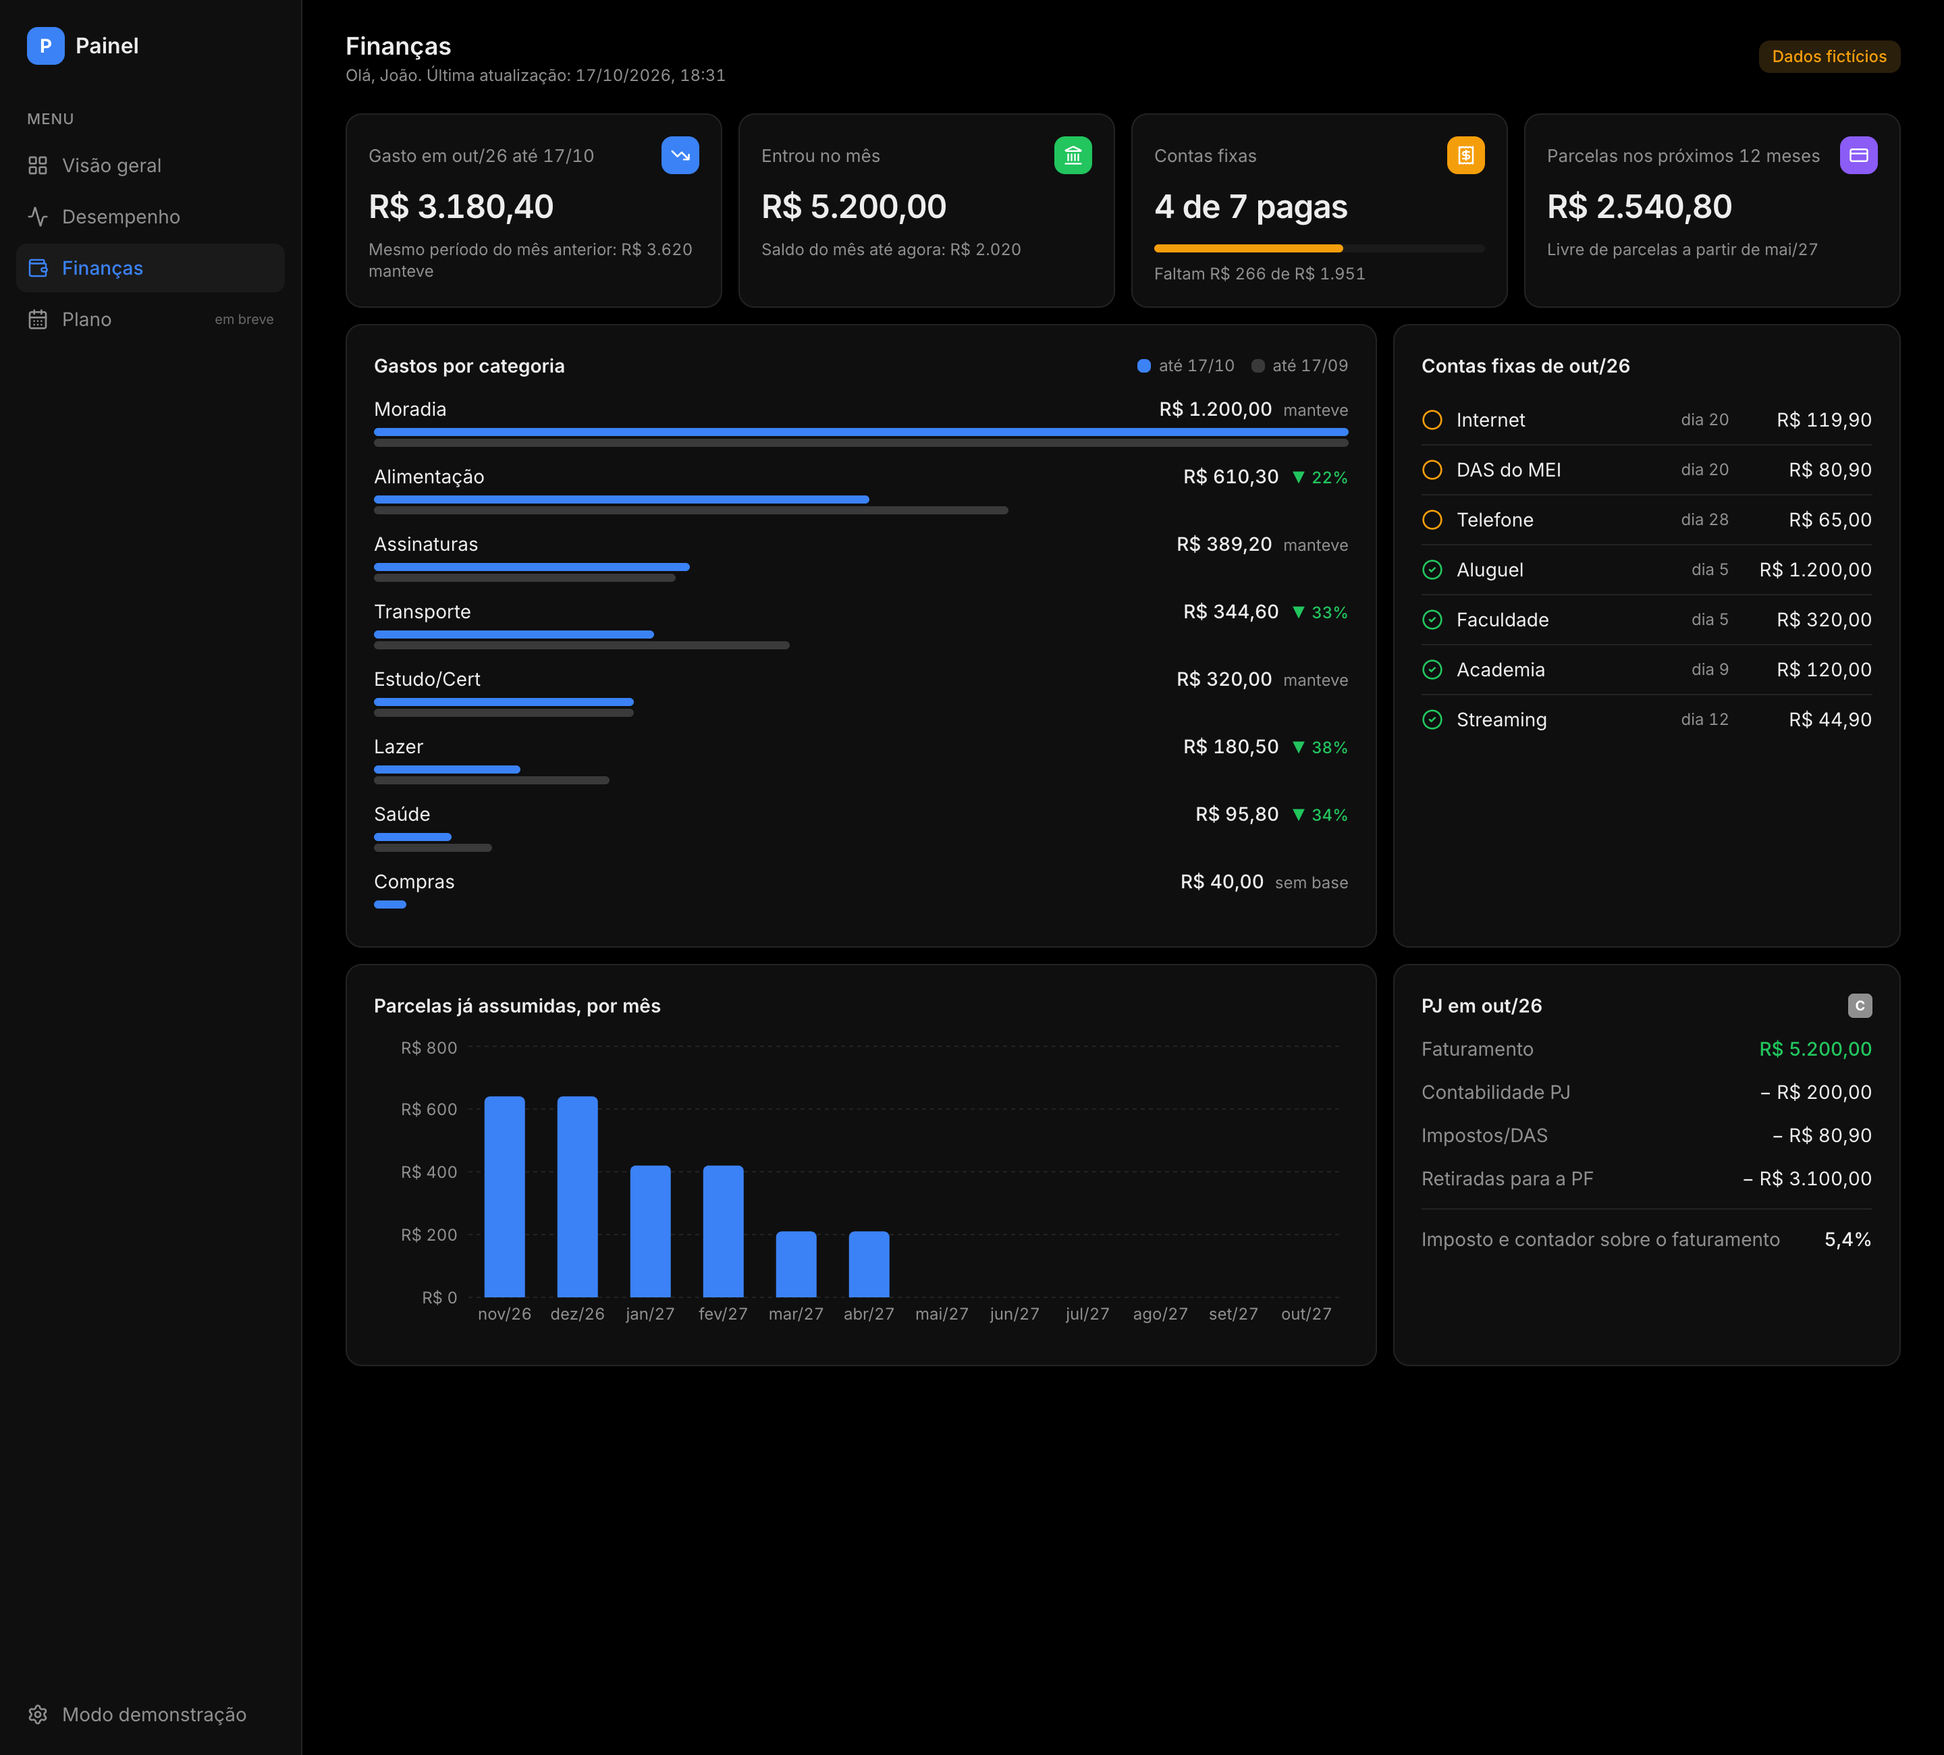
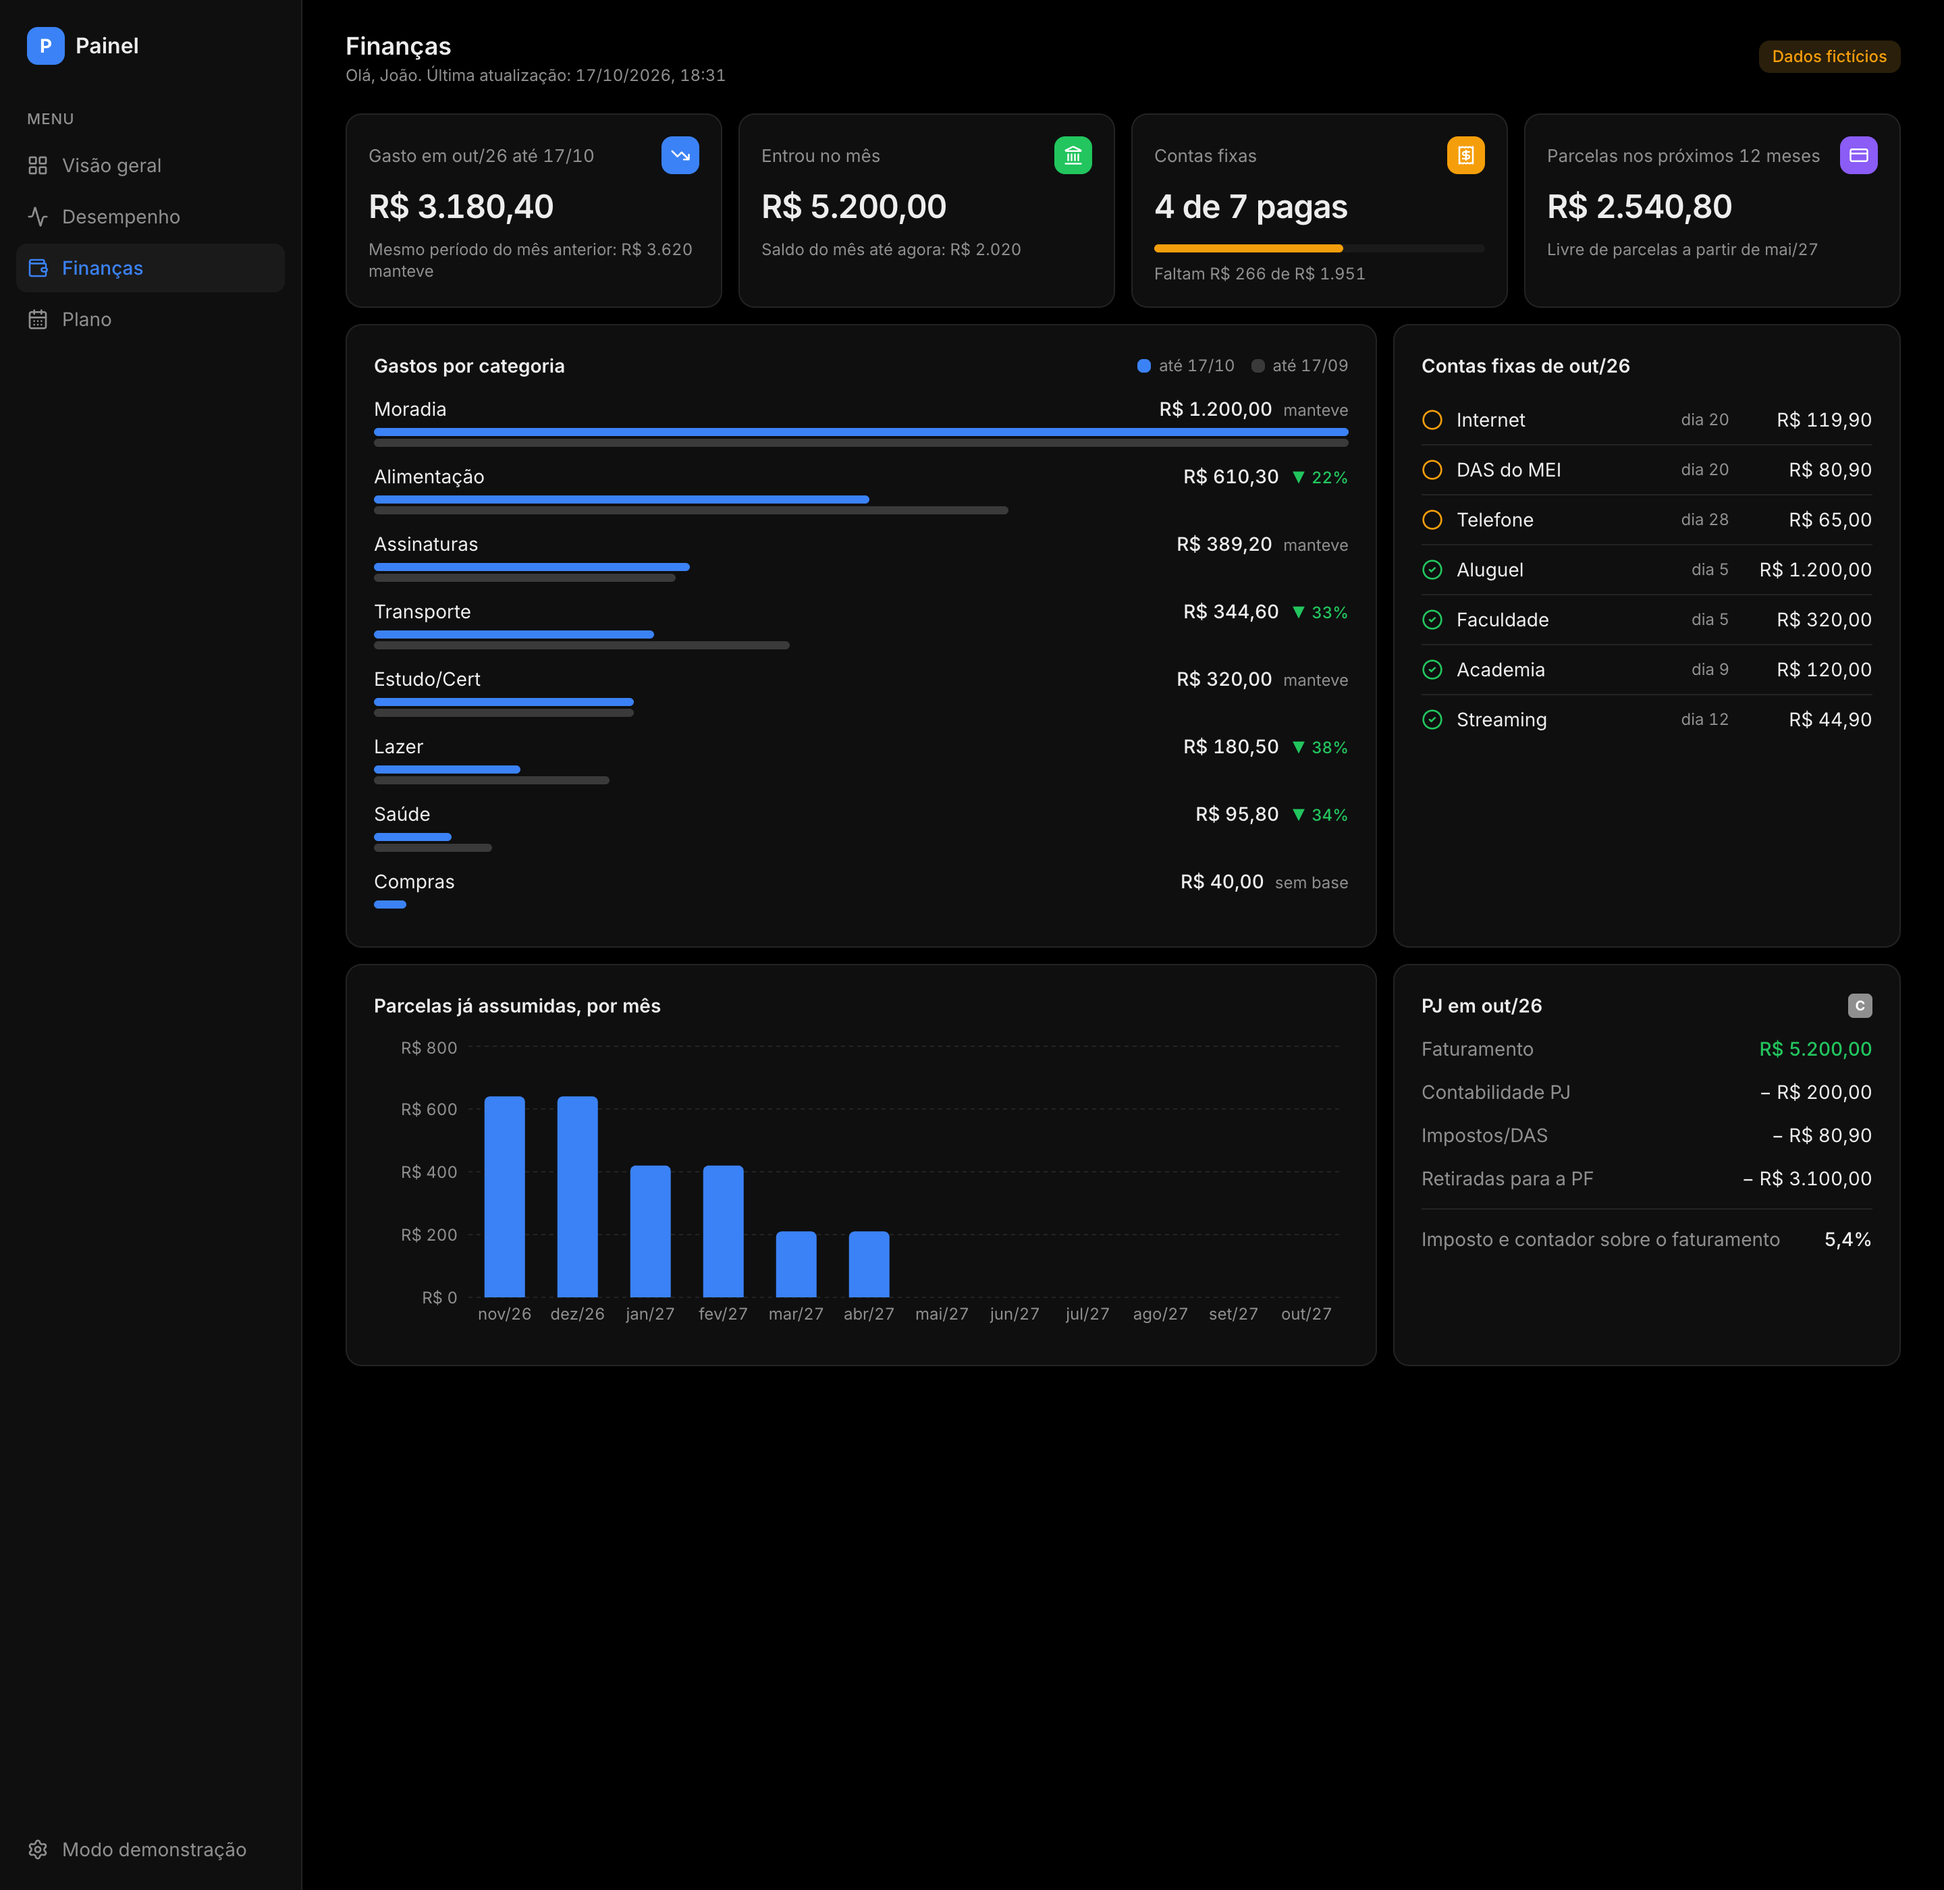
Tela de Plano
Linha do tempo com saldo previsto item a item (descontado o dia a dia ainda livre), depósitos
da meta e compromissos com data para acabar. Visão geral mostra o plano só até o próximo salário.

diff --git a/src/app/plano/page.tsx b/src/app/plano/page.tsx
@@ -1,0 +1,130 @@
+import { CalendarClock, Hourglass, PiggyBank, Wallet } from "lucide-react";
+import { Cartao, Moldura } from "@/components/Moldura";
+import { Barra, Kpi } from "@/components/Kpi";
+import { carregarPainel, modo } from "@/lib/dados";
+import { diaMes, reais, reaisCurto } from "@/lib/formato";
+import type { Status } from "@/lib/tipos";
+
+export const dynamic = "force-dynamic";
+
+const MESES = ["janeiro", "fevereiro", "março", "abril", "maio", "junho", "julho", "agosto", "setembro", "outubro", "novembro", "dezembro"];
+const mesCurto = (ym: string) => `${MESES[Number(ym.slice(5, 7)) - 1].slice(0, 3)}/${ym.slice(2, 4)}`;
+const nMeses = (de: string, ate: string) =>
+  (Number(ate.slice(0, 4)) - Number(de.slice(0, 4))) * 12 + Number(ate.slice(5, 7)) - Number(de.slice(5, 7)) + 1;
+
+const selo: Record<Status, string> = { feito: "bg-ok-suave text-ok", previsto: "bg-primaria-suave text-primaria", atencao: "bg-alerta-suave text-alerta" };
+const textoSelo: Record<Status, string> = { feito: "Feito", previsto: "Previsto", atencao: "Atenção" };
+
+export default async function Plano() {
+  const p = await carregarPainel();
+  const f = p.financas;
+  const hoje = p.atualizadoEm.slice(0, 7);
+  const saldoInicial = f.contas.reduce((s, c) => s + c.saldo, 0);
+
+  // Saldo previsto: parte do saldo de hoje menos o dia a dia ainda livre (gasto aos poucos até o fim do mês)
+  // e aplica, em ordem, só o que ainda não aconteceu.
+  const diaLivre = Math.max(0, f.diaADia.orcamento - f.diaADia.gasto);
+  let corrente = saldoInicial - diaLivre;
+  const linhas = [...f.plano].sort((a, b) => a.data.localeCompare(b.data)).map((i) => {
+    if (i.status !== "feito") corrente += (i.entra ?? 0) - (i.sai ?? 0);
+    return { ...i, saldo: i.status === "feito" ? null : corrente };
+  });
+  const menor = Math.min(saldoInicial - diaLivre, ...linhas.filter((l) => l.saldo != null).map((l) => l.saldo as number));
+  const porMes = linhas.reduce<Record<string, typeof linhas>>((acc, l) => ((acc[l.data.slice(0, 7)] ??= []).push(l), acc), {});
+
+  const depositos = f.meta.depositos ?? [];
+  const feitos = depositos.filter((d) => d.feito).length;
+  const compromissos = (f.compromissos ?? []).map((c) => {
+    const total = nMeses(c.de, c.ate);
+    // Meses anteriores ao atual contam como pagos; o atual, só se o item do plano com o mesmo nome já foi feito.
+    const pagoNoMes = f.plano.some((i) => i.status === "feito" && i.data.startsWith(hoje) && i.descricao === c.descricao);
+    const pagos = Math.min(total, Math.max(0, nMeses(c.de, hoje) - 1 + (pagoNoMes ? 1 : 0)));
+    return { ...c, total, pagos, falta: (total - pagos) * c.mensal };
+  });
+  const mensalAtivo = compromissos.filter((c) => c.ate >= hoje).reduce((s, c) => s + c.mensal, 0);
+
+  return (
+    <Moldura ativa="plano" titulo="Plano" modo={modo} dono={p.dono} atualizadoEm={p.atualizadoEm}>
+      <div className="grid grid-cols-1 gap-3 sm:grid-cols-2 xl:grid-cols-4">
+        <Kpi titulo={f.meta.titulo} valor={`${reaisCurto(f.meta.acumulado)} de ${reaisCurto(f.meta.alvo)}`} icone={PiggyBank} cor="bg-ok"
+          detalhe={<>{feitos} de {depositos.length} depósitos feitos</>}>
+          <Barra pct={(f.meta.acumulado / Math.max(1, f.meta.alvo)) * 100} cor="bg-ok" />
+        </Kpi>
+        <Kpi titulo="Próximo depósito" valor={f.meta.proximo ? reais(f.meta.proximo.valor) : "—"} icone={CalendarClock} cor="bg-primaria"
+          detalhe={f.meta.proximo ? <>Em {diaMes(f.meta.proximo.data)}</> : <>Meta concluída</>} />
+        <Kpi titulo="Menor saldo previsto" valor={reais(menor)} icone={Wallet} cor={menor < 0 ? "bg-perigo" : "bg-alerta"}
+          detalhe={menor < 0 ? <>O plano fica negativo em algum momento</> : <>O plano não fica negativo até {diaMes(linhas.at(-1)?.data ?? "")}</>} />
+        <Kpi titulo="Compromissos por mês" valor={reais(mensalAtivo)} icone={Hourglass} cor="bg-[#8b5cf6]"
+          detalhe={<>{compromissos.filter((c) => c.ate >= hoje).length} com data para acabar</>} />
+      </div>
+
+      <div className="mt-3 grid grid-cols-1 gap-3 xl:grid-cols-3">
+        <div className="xl:col-span-2">
+          <Cartao titulo="Linha do tempo" extra={<span className="text-xs text-texto-2">
+            saldo previsto: {reaisCurto(saldoInicial)} hoje − {reaisCurto(diaLivre)} do dia a dia livre</span>}>
+            <div className="overflow-x-auto">
+              <table className="w-full min-w-[540px] text-sm">
+                <thead>
+                  <tr className="border-b border-borda text-left text-xs text-texto-2">
+                    <th className="py-2 pr-3 font-medium">Data</th><th className="py-2 pr-3 font-medium">Item</th>
+                    <th className="py-2 pr-3 text-right font-medium">Valor</th><th className="py-2 pr-3 text-right font-medium">Saldo previsto</th>
+                    <th className="py-2 font-medium">Status</th>
+                  </tr>
+                </thead>
+                {Object.entries(porMes).map(([mes, itens]) => (
+                  <tbody key={mes}>
+                    <tr><td colSpan={5} className="pb-1 pt-4 text-xs font-semibold uppercase tracking-wider text-texto-2">
+                      {MESES[Number(mes.slice(5, 7)) - 1]} {mes.slice(0, 4)}</td></tr>
+                    {itens.map((i, k) => (
+                      <tr key={k} className={`border-b border-borda last:border-0 ${i.status === "feito" ? "text-texto-2" : ""}`}>
+                        <td className="py-2 pr-3 text-texto-2">{diaMes(i.data)}</td>
+                        <td className="py-2 pr-3">{i.descricao}</td>
+                        <td className={`py-2 pr-3 text-right ${i.entra ? "text-ok" : ""}`}>{i.entra ? `+ ${reais(i.entra)}` : `− ${reais(i.sai ?? 0)}`}</td>
+                        <td className={`py-2 pr-3 text-right font-medium ${i.saldo != null && i.saldo < 0 ? "text-perigo" : ""}`}>
+                          {i.saldo == null ? "—" : reais(i.saldo)}</td>
+                        <td className="py-2"><span className={`rounded-md px-2 py-0.5 text-xs font-medium ${selo[i.status]}`}>{textoSelo[i.status]}</span></td>
+                      </tr>
+                    ))}
+                  </tbody>
+                ))}
+              </table>
+            </div>
+          </Cartao>
+        </div>
+
+        <div className="flex flex-col gap-3">
+          <Cartao titulo={`Depósitos: ${f.meta.titulo}`}>
+            <ol className="flex flex-col gap-2.5 text-sm">
+              {depositos.map((d, k) => {
+                const acum = depositos.slice(0, k + 1).reduce((s, x) => s + x.valor, 0);
+                return (
+                  <li key={k} className="flex items-center gap-3">
+                    <span className={`grid size-6 shrink-0 place-items-center rounded-full text-[11px] font-semibold ${d.feito ? "bg-ok text-white" : "bg-primaria-suave text-primaria"}`}>{k + 1}</span>
+                    <span className="flex-1">{diaMes(d.data)}</span>
+                    <span className="font-medium">{reais(d.valor)}</span>
+                    <span className="w-20 text-right text-xs text-texto-2">{reaisCurto(acum)}</span>
+                  </li>
+                );
+              })}
+            </ol>
+          </Cartao>
+          <Cartao titulo="Compromissos com data para acabar">
+            <ul className="flex flex-col gap-4 text-sm">
+              {compromissos.map((c) => (
+                <li key={c.descricao}>
+                  <div className="flex items-baseline justify-between gap-2">
+                    <span>{c.descricao}</span><span className="font-medium">{reais(c.mensal)}/mês</span>
+                  </div>
+                  <Barra pct={(c.pagos / c.total) * 100} cor="bg-[#8b5cf6]" />
+                  <p className="mt-1.5 text-xs text-texto-2">
+                    {c.pagos} de {c.total} pagas · acaba em {mesCurto(c.ate)} · faltam {reaisCurto(c.falta)}
+                  </p>
+                </li>
+              ))}
+            </ul>
+          </Cartao>
+        </div>
+      </div>
+    </Moldura>
+  );
+}

diff --git a/src/lib/tipos.ts b/src/lib/tipos.ts
@@ -20,7 +20,11 @@ export type Painel = {
       sobraAte: string;
       dependeDe: string[];
     };
-    meta: { titulo: string; alvo: number; acumulado: number; proximo: { data: string; valor: number } | null };
+    meta: {
+      titulo: string; alvo: number; acumulado: number; proximo: { data: string; valor: number } | null;
+      depositos?: { data: string; valor: number; feito: boolean }[];
+    };
+    compromissos?: { descricao: string; mensal: number; de: string; ate: string }[]; // de/ate: AAAA-MM
     diaADia: { orcamento: number; gasto: number; ate: string };
     plano: { data: string; descricao: string; entra?: number; sai?: number; status: Status }[];
     detalhe?: Detalhe;

diff --git a/src/components/Lateral.tsx b/src/components/Lateral.tsx
@@ -7,7 +7,7 @@ export const telas: { id: Tela; nome: string; href: string; icone: typeof Layout
   { id: "visao", nome: "Visão geral", href: "/", icone: LayoutGrid, pronta: true },
   { id: "desempenho", nome: "Desempenho", href: "/desempenho", icone: Activity, pronta: true },
   { id: "financas", nome: "Finanças", href: "/financas", icone: Wallet, pronta: true },
-  { id: "plano", nome: "Plano", href: "/plano", icone: CalendarDays, pronta: false },
+  { id: "plano", nome: "Plano", href: "/plano", icone: CalendarDays, pronta: true },
 ];
 
 export function Lateral({ modo, ativa }: { modo: string; ativa: Tela }) {

diff --git a/src/app/page.tsx b/src/app/page.tsx
@@ -76,9 +76,9 @@ export default async function Pagina() {
         </div>
 
         <div className="mt-3">
-          <Cartao titulo="Plano do mês" extra={
+          <Cartao titulo={`Plano até ${diaMes(f.marco.sobraAte)}`} extra={
             <p className="text-xs text-texto-2">Depende de: {f.marco.dependeDe.join(" · ")}</p>}>
-            <TabelaPlano plano={f.plano} />
+            <TabelaPlano plano={f.plano.filter((i) => i.data <= f.marco.sobraAte)} />
           </Cartao>
         </div>
     </Moldura>

diff --git a/README.md b/README.md
@@ -9,11 +9,14 @@ Next.js 15 (App Router), Tailwind 4 e Recharts. Tema claro e escuro, layout de c
 |---|---|
 | Visão geral | saldo, próximo marco do plano, meta, dia a dia do mês, semana atual e plano do mês |
 | Finanças | gasto do mês contra os mesmos dias do mês anterior, por categoria; contas fixas pagas e pendentes; parcelas dos próximos 12 meses; faturamento e custos da PJ |
+| Plano | linha do tempo com saldo previsto item a item (já descontado o dia a dia livre), depósitos da meta e compromissos com data para acabar |
 | Desempenho | média de 4 semanas por empresa (com variação), histórico de commits com marcos, entregas e PRs, % fora do expediente (média móvel) e a avaliação da semana por área |
 
 ![Finanças](docs/financas.png)
 
 ![Desempenho](docs/desempenho.png)
+
+![Plano](docs/plano.png)
 
 ## Dois modos, um código
 
